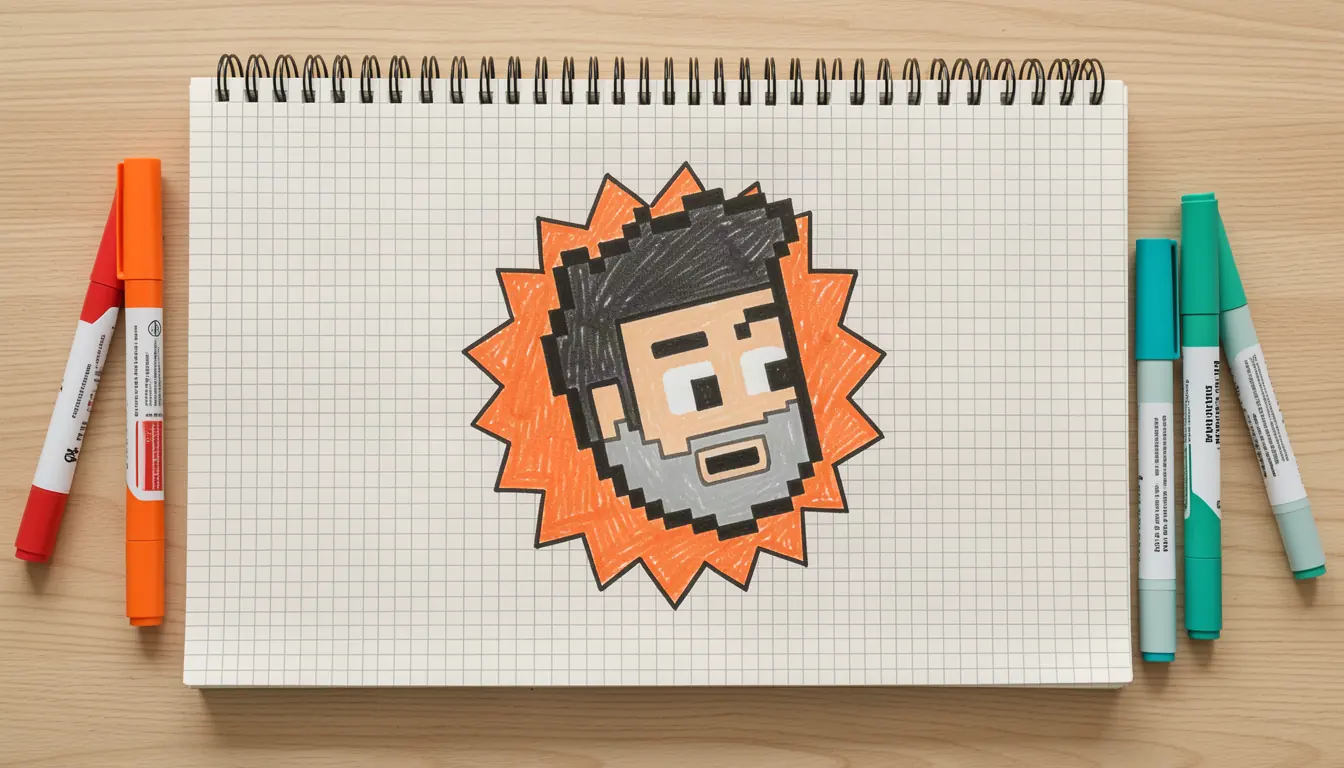
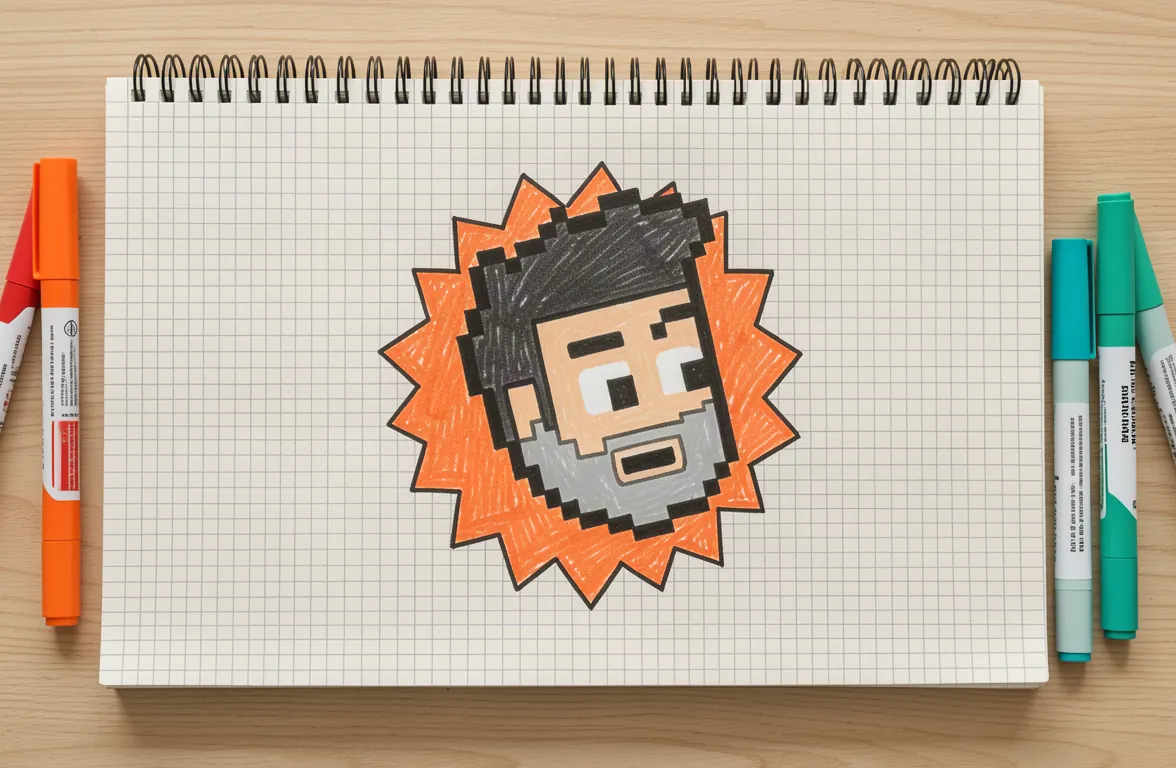
Hero: imagen agrandada (grid 6/6 + recorte 87.5% horizontal, webp 74.7KB)

diff --git a/src/styles/global.css b/src/styles/global.css
@@ -173,7 +173,7 @@ a:hover {
 
 @media (min-width: 768px) {
   .hero-grid {
-    grid-template-columns: 1.1fr 0.9fr;
+    grid-template-columns: 1fr 1fr;
     gap: 3rem;
   }
 }
